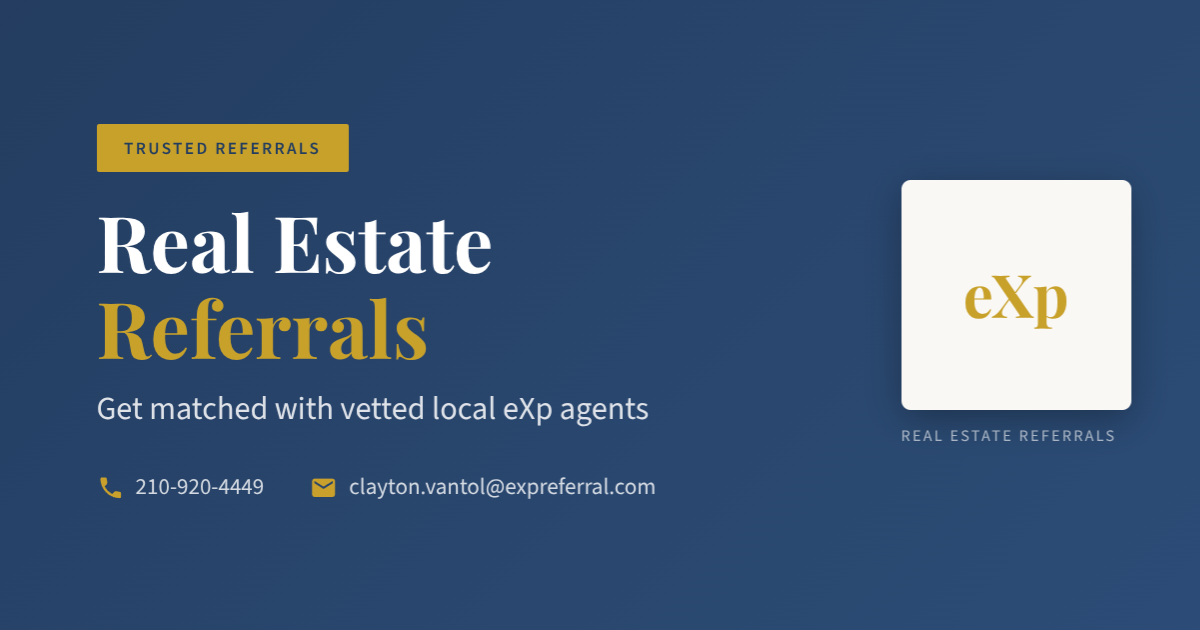
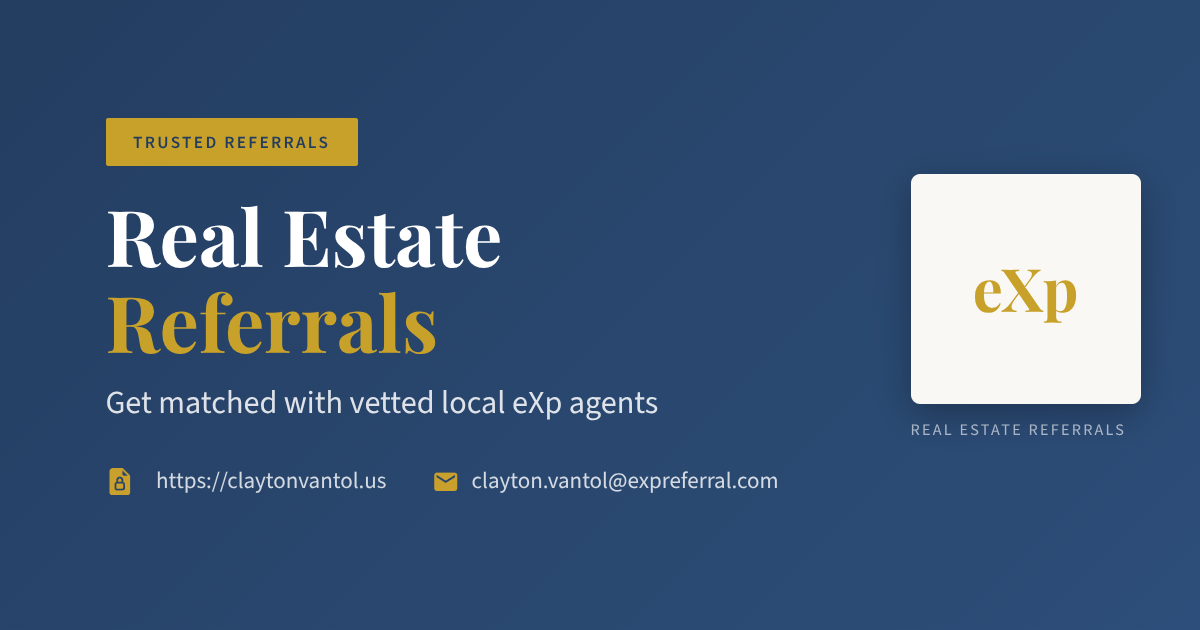
Update Heropage/image

diff --git a/heroimage.html b/heroimage.html
@@ -118,11 +118,15 @@
             <p class="subtitle">Get matched with vetted local eXp agents</p>
             <div class="contact">
                 <div class="contact-item">
-                    <svg viewBox="0 0 24 24"><path d="M6.62 10.79c1.44 2.83 3.76 5.14 6.59 6.59l2.2-2.2c.27-.27.67-.36 1.02-.24 1.12.37 2.33.57 3.57.57.55 0 1 .45 1 1V20c0 .55-.45 1-1 1-9.39 0-17-7.61-17-17 0-.55.45-1 1-1h3.5c.55 0 1 .45 1 1 0 1.25.2 2.45.57 3.57.11.35.03.74-.25 1.02l-2.2 2.2z"/></svg>
-                    <span>210-920-4449</span>
+                    <svg viewBox="0 0 16 16">
+                        <path d="M7 7a1 1 0 0 1 2 0v1H7V7zM6 9.3c0-.042.02-.107.105-.175A.637.637 0 0 1 6.5 9h3a.64.64 0 0 1 .395.125c.085.068.105.133.105.175v2.4c0 .042-.02.107-.105.175A.637.637 0 0 1 9.5 12h-3a.637.637 0 0 1-.395-.125C6.02 11.807 6 11.742 6 11.7V9.3z"/> <path d="M9.293 0H4a2 2 0 0 0-2 2v12a2 2 0 0 0 2 2h8a2 2 0 0 0 2-2V4.707A1 1 0 0 0 13.707 4L10 .293A1 1 0 0 0 9.293 0zM9.5 3.5v-2l3 3h-2a1 1 0 0 1-1-1zM10 7v1.076c.54.166 1 .597 1 1.224v2.4c0 .816-.781 1.3-1.5 1.3h-3c-.719 0-1.5-.484-1.5-1.3V9.3c0-.627.46-1.058 1-1.224V7a2 2 0 1 1 4 0z"/>
+                    </svg>
+                    <span></span>https://claytonvantol.us</span>
                 </div>
                 <div class="contact-item">
-                    <svg viewBox="0 0 24 24"><path d="M20 4H4c-1.1 0-1.99.9-1.99 2L2 18c0 1.1.9 2 2 2h16c1.1 0 2-.9 2-2V6c0-1.1-.9-2-2-2zm0 4l-8 5-8-5V6l8 5 8-5v2z"/></svg>
+                    <svg viewBox="0 0 24 24">
+                        <path d="M20 4H4c-1.1 0-1.99.9-1.99 2L2 18c0 1.1.9 2 2 2h16c1.1 0 2-.9 2-2V6c0-1.1-.9-2-2-2zm0 4l-8 5-8-5V6l8 5 8-5v2z"/>
+                    </svg>
                     <span>clayton.vantol@expreferral.com</span>
                 </div>
             </div>
